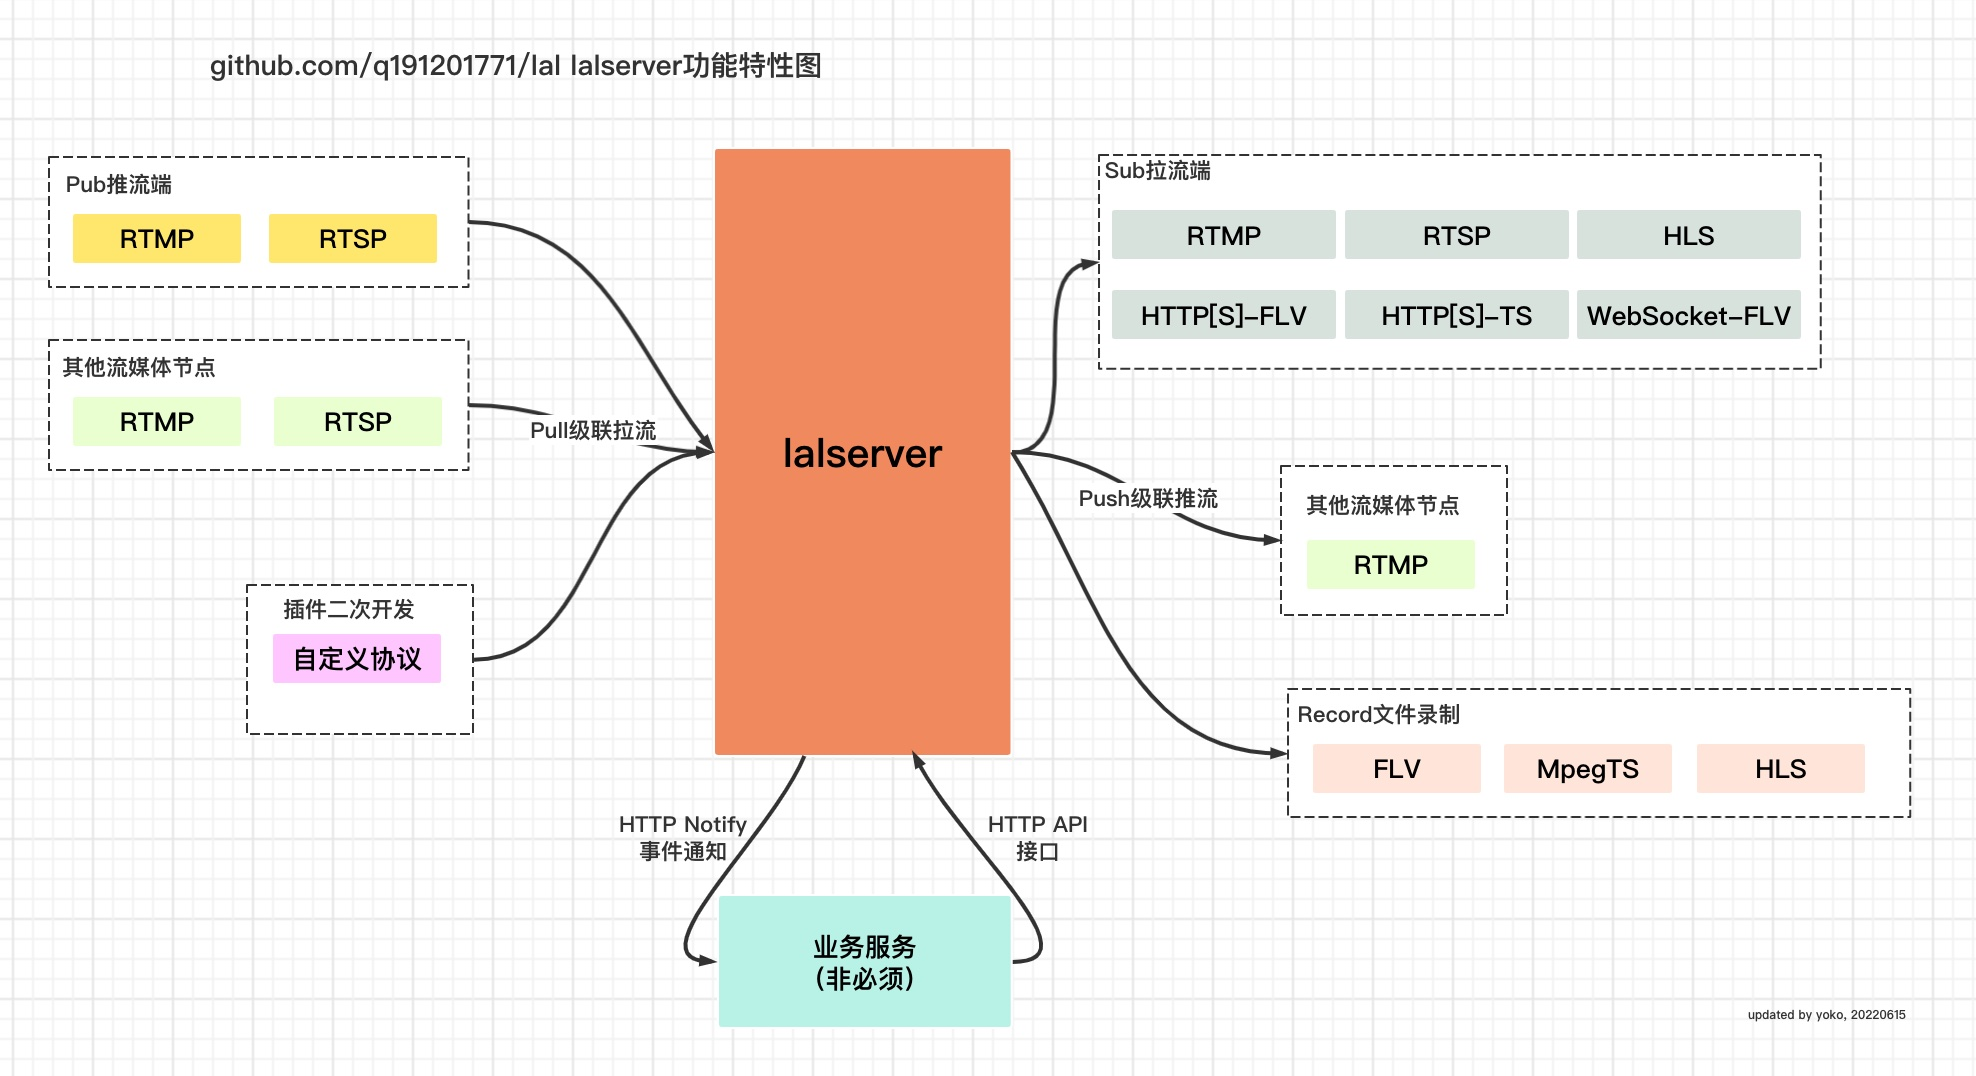
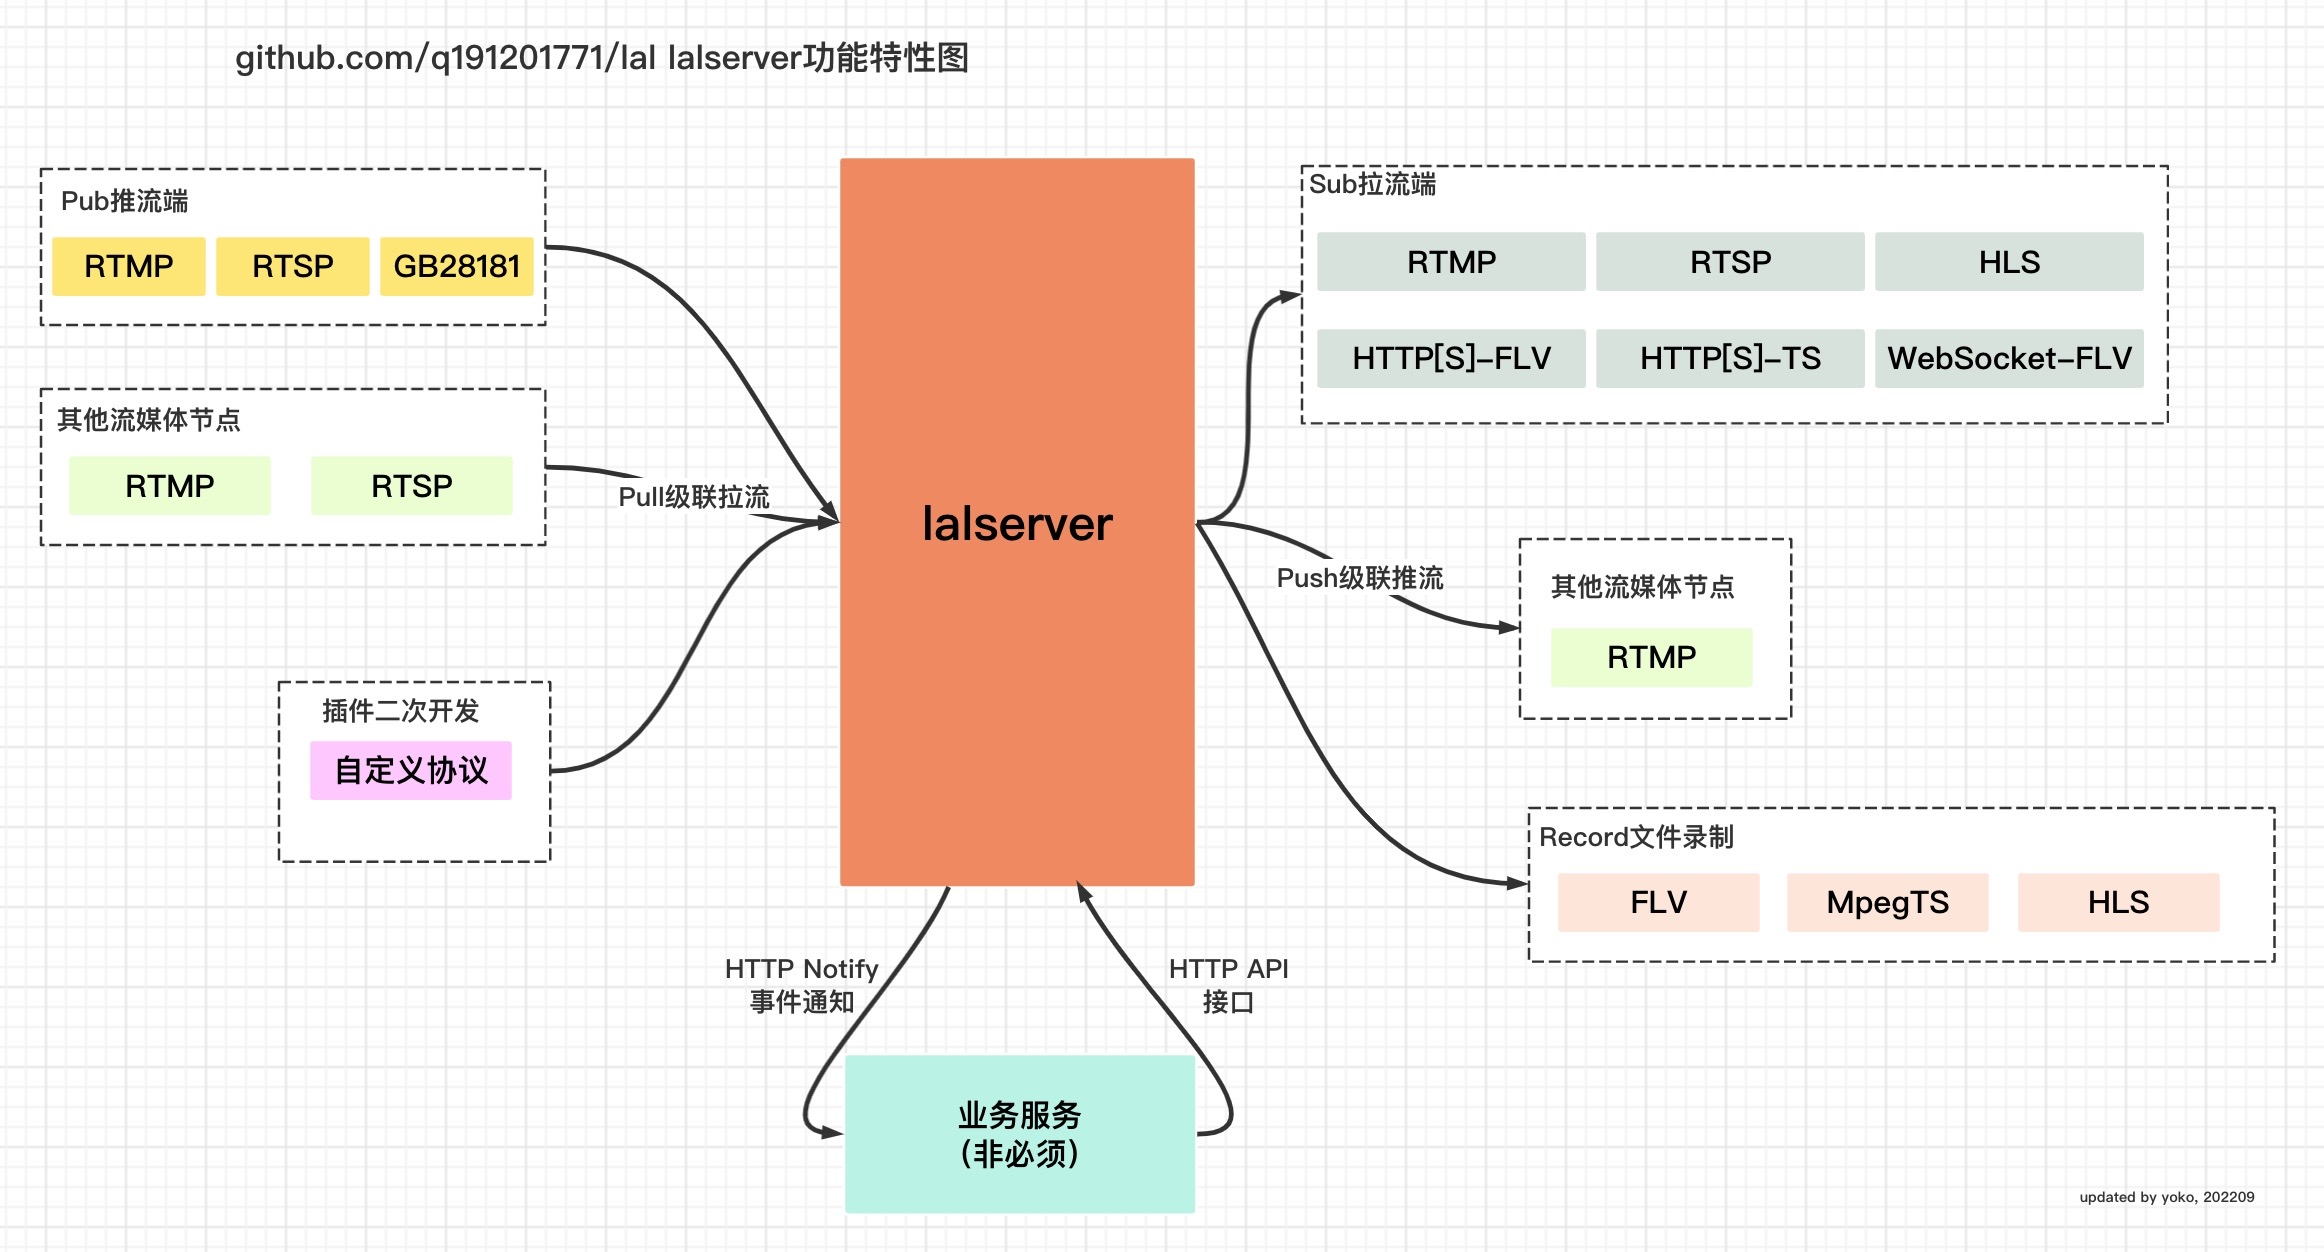
lal_website: mod README.md and lal_feature.jpeg

diff --git a/lal_website/README.md b/lal_website/README.md
@@ -43,7 +43,7 @@
 
 ### ▦ 一. lalserver 简介
 
-[lalserver](https://github.com/q191201771/lal)是纯Golang开发的流媒体（直播音视频网络传输）服务器。目前已支持RTMP, RTSP(RTP/RTCP), HLS, HTTP[S]/WebSocket[S]-FLV/TS协议。并支持二次开发扩展。
+[lalserver](https://github.com/q191201771/lal)是纯Golang开发的流媒体（直播音视频网络传输）服务器。目前已支持RTMP, RTSP(RTP/RTCP), HLS, HTTP[S]/WebSocket[S]-FLV/TS, GB28181协议。并支持通过插件形式进行二次开发扩展。
 
 ![lal特性图](https://pengrl.com/lal/_media/lal_feature.jpeg?date=220501)
 
@@ -59,9 +59,9 @@
 - [x] **高性能**。多核多线程扩展，支持高并发，性能和同类型`c/c++`开发服务处于同一水平
 - [x] **高可用**。完善的单元测试。并且有多个线上环境应用
 - [x] **多种直播流封装协议**。
-  - [x] 支持RTMP, RTSP(RTP/RTCP), HLS, HTTP[S]/WebSocket[S]-FLV/TS
+  - [x] 支持RTMP, RTSP(RTP/RTCP), HLS, HTTP[S]/WebSocket[S]-FLV/TS, GB28181
   - [x] 支持不同封装协议间相互转换
-  - [x] 支持二次开发，扩展其他协议
+  - [x] 支持通过插件形式进行二次开发，扩展其他协议
 - [x] **多种编码格式**。视频支持H264/AVC，H265/HEVC，音频支持AAC
 - [x] **多种格式录制**。支持FLV，长MPEGTS，HLS录制(HLS直播与录制可同时开启)
 - [x] **HTTPS**。支持HTTPS-FLV，HTTPS-TS，HLS over HTTPS拉流
@@ -197,7 +197,8 @@ lal项目中，除了`/app/lalserver`这个比较核心的服务之外，在`/ap
 
 ##### ✦ 流媒体协议栈库package/library
 
-lal中的协议栈都是独立的，与应用分层设计的。并且客户端和服务端的协议栈都有。
+客户端和服务端的协议栈都有。
+lal中的协议栈都是独立的，分多层设计的。
 业务方可以在自身的应用中集成lal的协议栈package库。
 
 ##### ✦ Golang通用基础库-naza
@@ -216,14 +217,9 @@ rtmp转WebRTC的网关
 
 了解更多请访问： [《lalext github 地址》](https://github.com/q191201771/lalext)： https://github.com/q191201771/lalext
 
+##### ✦ SRT
+
 #### ✒ 进行中
-
-- lal:
-  - 支持国标GB28181协议
-  - lalserver插件功能，支持业务方注册自定义协议
-- lalext: 使用lal库中流传输以及装封装功能的代码，结合ffmpeg库中编解码功能的代码，演示MCU合流
-
-了解更多请访问：
 
 - [正在搞的TODO Roadmap-汇总](https://github.com/q191201771/lal/issues/157)
 - [不确定啥时候搞的Indefinite delay-汇总](https://github.com/q191201771/lal/issues/37)
